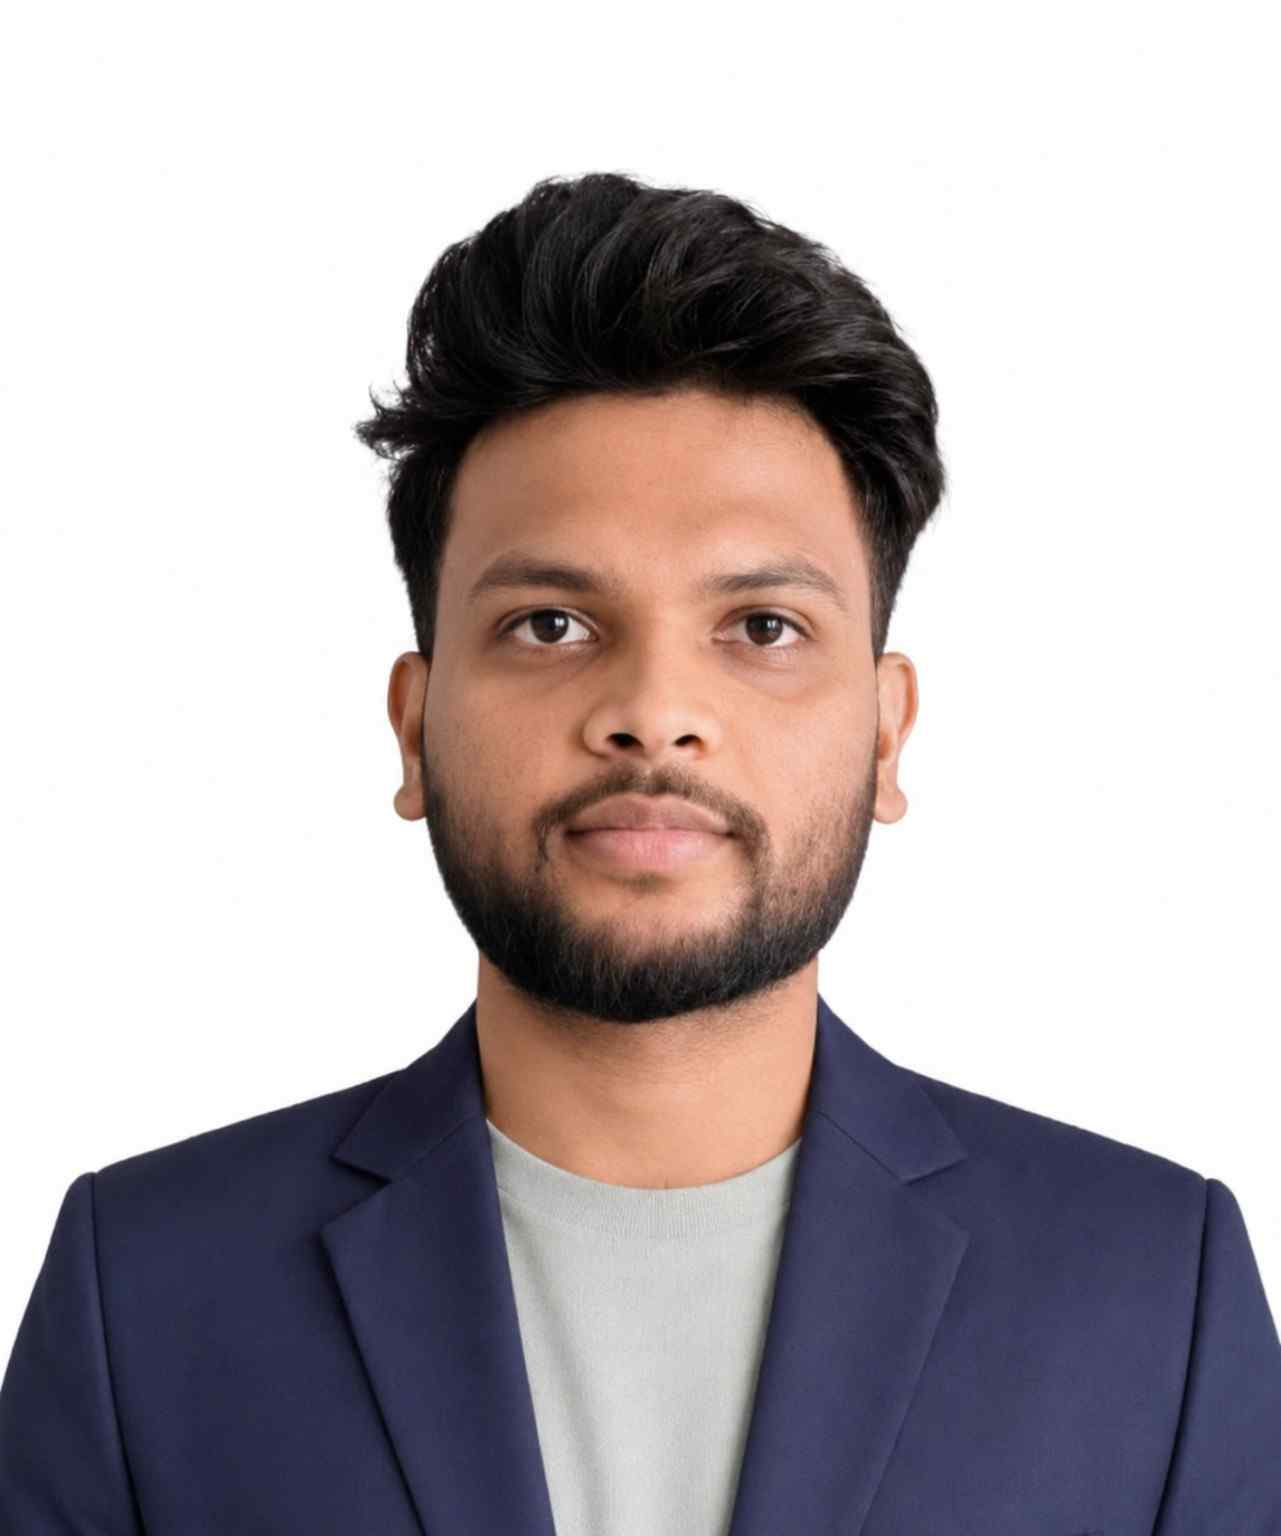
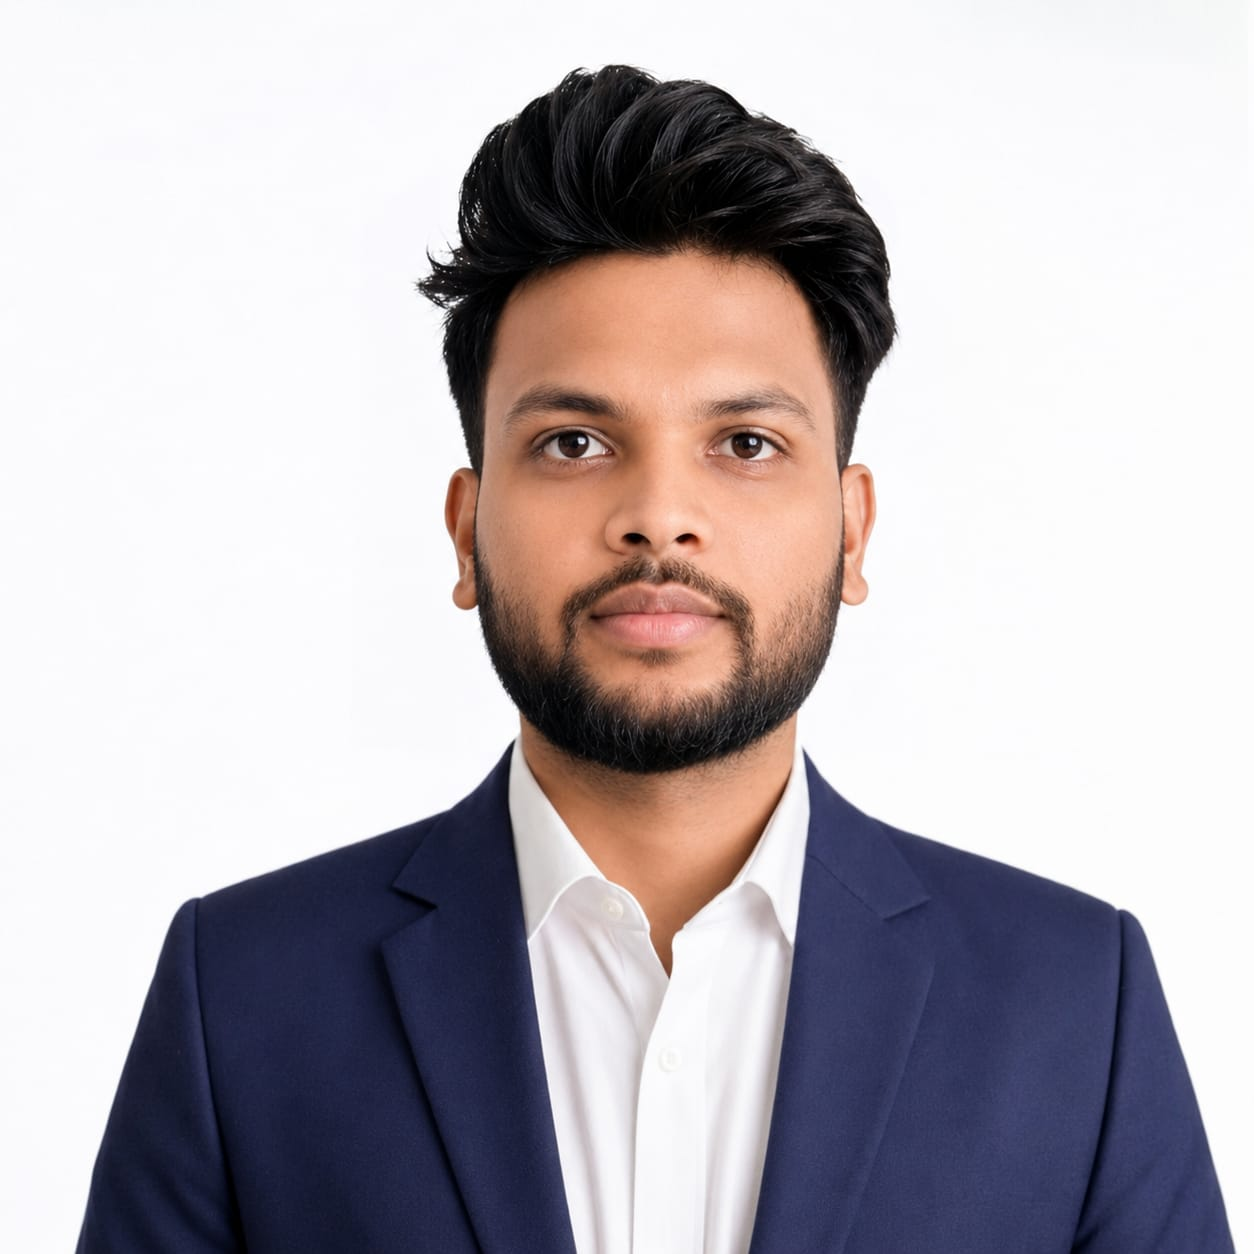
style: replace profile image with the new JPEG profile photo and update index.html reference

diff --git a/index.html b/index.html
@@ -187,7 +187,7 @@
           <div class="profile-card glass-card">
             <div class="profile-img-container">
               <!-- Actual profile picture with SVG vector avatar fallback -->
-              <img src="assets/profile.png" alt="Muruli H P Profile Picture" class="profile-img" onerror="this.style.display='none'; this.nextElementSibling.style.display='flex';" loading="lazy">
+              <img src="assets/profile.jpeg" alt="Muruli H P Profile Picture" class="profile-img" onerror="this.style.display='none'; this.nextElementSibling.style.display='flex';" loading="lazy">
               <div class="profile-placeholder" style="display: none;">
                 <svg viewBox="0 0 24 24" aria-hidden="true">
                   <path d="M12 12c2.21 0 4-1.79 4-4s-1.79-4-4-4-4 1.79-4 4 1.79 4 4 4zm0 2c-2.67 0-8 1.34-8 4v2h16v-2c0-2.66-5.33-4-8-4z"/>